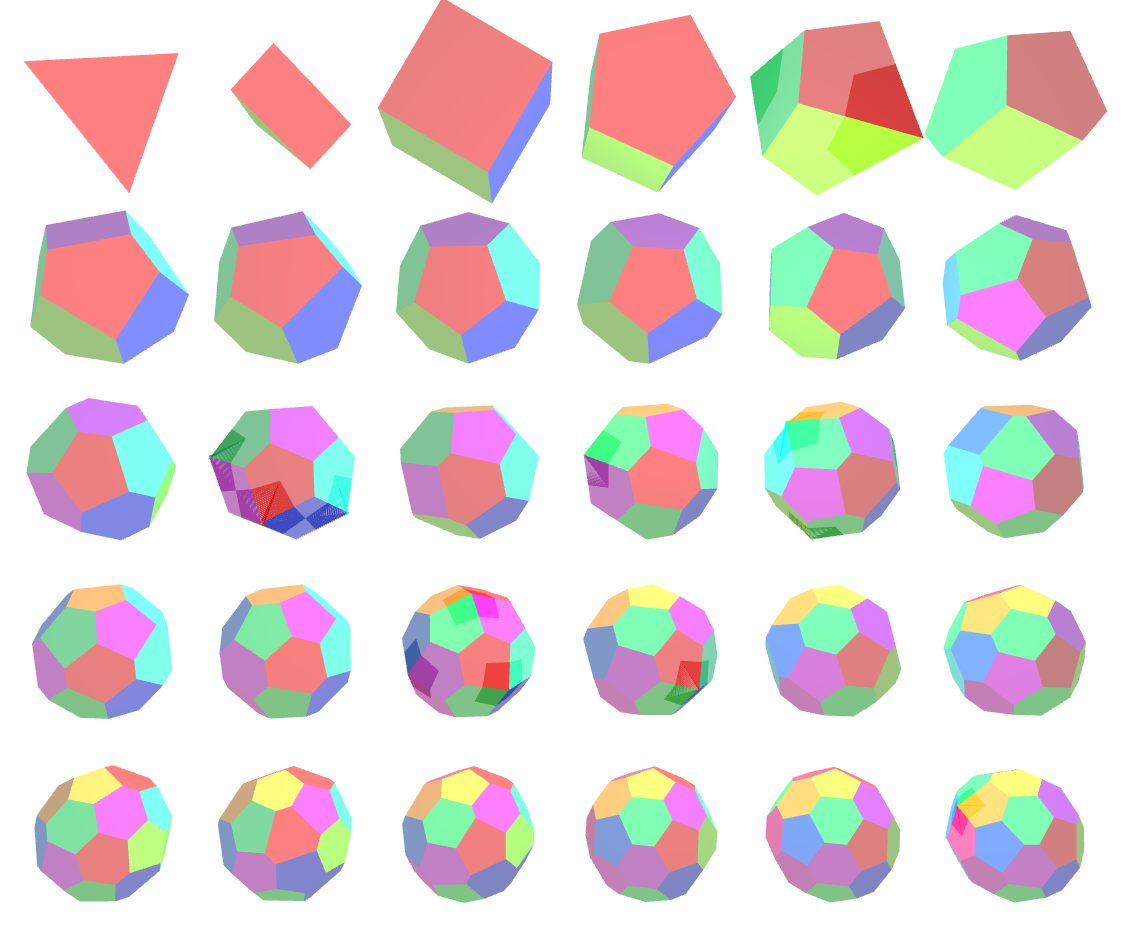
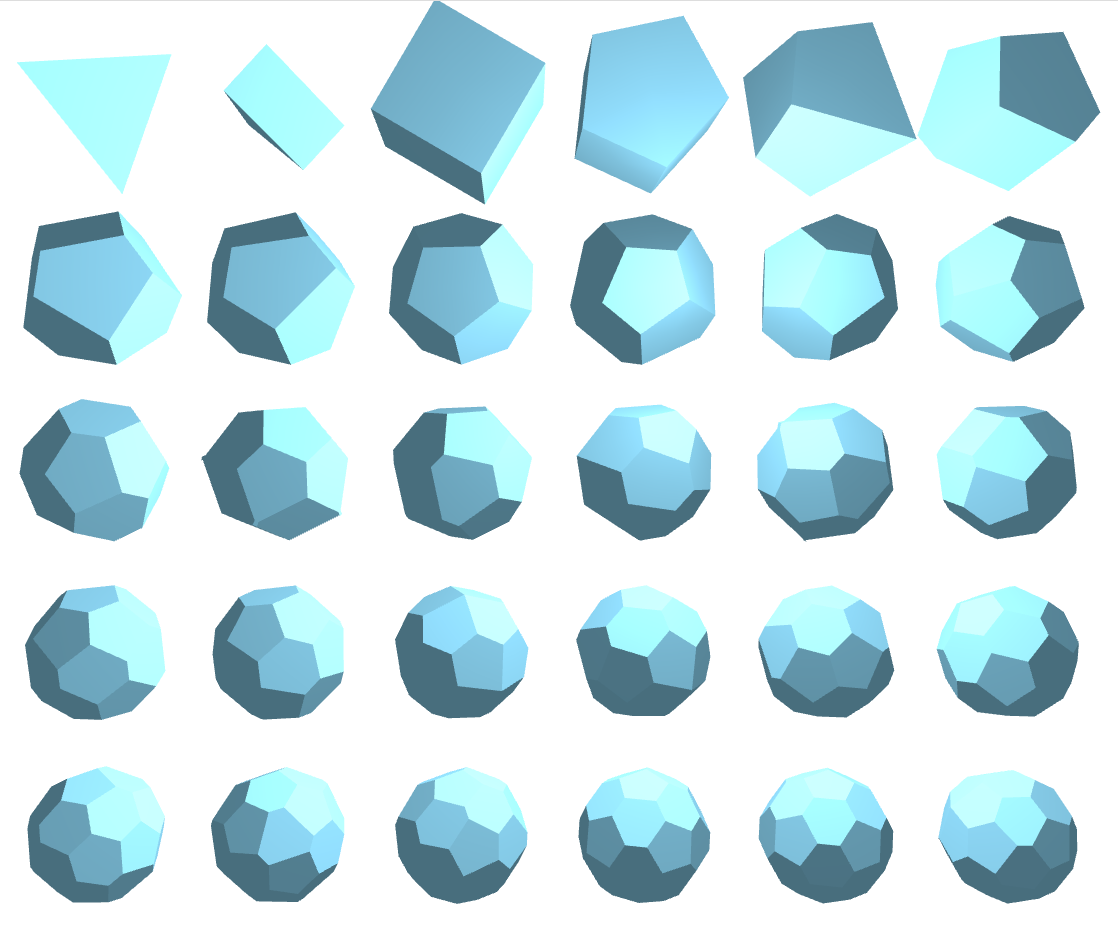
InnterFace result and OuterFace result display with single color

diff --git a/html5/ThreeView.js b/html5/ThreeView.js
@@ -6,6 +6,7 @@ var ThreeCamera;
 var width, height;
 var Renderer;
 
+var TriangleOpacity = 0.5;
 var	IsMouseDown = 0;
 var	DownX = 0;
 var	DownY = 0;
@@ -375,6 +376,7 @@ function hideTron() {
 }
 
 var cnt2 = 0;
+var ColorCount = 0;
 function drawTriangle(p0, p1, p2, n) {
 
     if (n == null) {
@@ -390,15 +392,12 @@ function drawTriangle(p0, p1, p2, n) {
 	//	n.mul(-1.0);
 	//}
     var idx = findTronFromNormal(n);
-    var col = Trons[idx].color;
-    // Calculate color from normal
-	//var col = Math.floor(Math.abs(n.x)*255) << 16;
-	//col += Math.floor(Math.abs(n.y)*255) << 8;
-	//col += Math.floor(Math.abs(n.z)*255);
-    //
-	//var col = Math.floor((n.x+1.0)*127) << 16;
-	//col += Math.floor((n.y+1.0)*127) << 8;
-	//col += Math.floor((n.z+1.0)*127);
+    var col;
+    col = Trons[idx].color;
+    if (GlobalFaceColor != null) {
+        col = GlobalFaceColor;
+    }
+
     var tri;
     var p0t = p0.clone();
     p0t.add(OffsetPoint);
@@ -447,7 +446,9 @@ function drawTriangle(p0, p1, p2, n) {
 	n.add(c);
 	//addLine(c, n, col);
 }
- 
+
+var GlobalFaceColor = null;
+
 function createTriangle(x0,y0,z0, x1,y1,z1, x2,y2,z2, col) {
     var geometry = new THREE.Geometry();
     var vect0 = new THREE.Vector3(x0, y0, z0);
@@ -465,16 +466,15 @@ function createTriangle(x0,y0,z0, x1,y1,z1, x2,y2,z2, col) {
 	//	side:THREE.FrontSide, transparent:true });
 
     var mat;
-    if (WhiteFace > 0.0) {
-        if (WhiteFace == 1.0) {
-            mat = new THREE.MeshLambertMaterial({color: 0xffffff, opacity: 1.0});
-        }
-        if (WhiteFace == 0.5) {
-            mat = new THREE.MeshLambertMaterial({ color: 0x808080, opacity: 1.0 });
-        }
+    if (GlobalFaceColor != null) {
+        mat = new THREE.MeshLambertMaterial({color: 0xff0000,
+            opacity:TriangleOpacity,
+            side:THREE.FrontSide, transparent:true });
+        mat.color.set(GlobalFaceColor);
+        mat.ambient.set(GlobalFaceColor);
     } else {
         mat = new THREE.MeshLambertMaterial({color: 0xff0000,
-		    opacity:0.5,
+		    opacity:TriangleOpacity,
 		    side:THREE.FrontSide, transparent:true });
         mat.color.setHSL(col.p1/360.0, 1.0, .5);
         mat.ambient.setHSL(col.p1/360.0, 1.0, .5);

diff --git a/html5/TronControlThree.js b/html5/TronControlThree.js
@@ -325,55 +325,6 @@ function loadIndexThree() {
 	selItem(n);
 }
 
-function loadResultView() {
-    //init();
-    ViewPole = new tuple3d(0, 0, 1);
-    ViewPoleX = new tuple3d(1, 0, 0);
-    ViewPoleX.unify();
-    ViewPoleY = ViewPole.cross(ViewPoleX);
-    ViewPoleY.unify();
-    ViewPole = ViewPoleX.cross(ViewPoleY);
-    ViewPole.unify();
-    ViewPoleX = ViewPoleY.cross(ViewPole);
-    ViewPoleX.unify();
-
-    width = document.getElementById('sphereCanvas').clientWidth;
-    height = document.getElementById('sphereCanvas').clientHeight;
-    Renderer = new THREE.WebGLRenderer({ antialias: true });
-    Renderer.setSize(width, height);
-    document.getElementById('sphereCanvas').appendChild(Renderer.domElement);
-    Renderer.setClearColorHex(0xFFFFFF, 1.0);
-
-    ZoomDistance = 2000;
-    initScene();
-    initLight();
-    initCamera();
-    initObjectThree();
-    for (var j = 0; j < 30; ++j) {
-        ModelInit();
-        var jsonObj = JSON.parse(results[4+j]);
-        for (var i = 0; i < jsonObj.num; ++i) {
-            var p = new tuple3d(jsonObj.vertex[3 * i], jsonObj.vertex[3 * i + 1], jsonObj.vertex[3 * i + 2]);
-            p.xy2sp();
-            var color = new tronColor("hsl", (i * 47) % 360, "100%", "50%");
-            AddTron(p.y, p.z, color);
-        }
-        hideTron();
-        OffsetPoint = new tuple3d(-7 + 3 * (j % 6), 6.5 - 3 * Math.floor(j / 6), 0);
-        if (j < 2) {
-            ThreeRadius = 100.5 * 0.5;
-            OffsetPoint.mul(2.0);
-        } else {
-            ThreeRadius = 100.5;
-        }
-        drawFace();
-    }
-
-    updateCamera();
-    Renderer.clear();
-    Renderer.render(ThreeScene, ThreeCamera);
-}
-
 var phase = 0;
 var calc_cnt = 0;
 

diff --git a/html5/DrawFace.js b/html5/DrawFace.js
@@ -276,6 +276,39 @@ function drawFace() {
     }
 }
 
+function drawInnerFace()
+{
+    var shortest = 1000;
+    for (var i = 0; i < Trons.length; ++i) {
+        for (var j = i + 1; j < Trons.length; ++j) {
+            var p0 = Trons[i].point.clone();
+            var p1 = Trons[j].point.clone();
+            var dis = p0.dis(p1);
+            if (dis < shortest) {
+                shortest = dis;
+            }
+        }
+    }
+    for (var i = 0; i < Trons.length; ++i) {
+        for (var j = i + 1; j < Trons.length; ++j) {
+            var p0 = Trons[i].point.clone();
+            var p1 = Trons[j].point.clone();
+            var dis01 = p0.dis(p1);
+            if (dis01 < shortest * 1.5) {
+                for (var k = j + 1; k < Trons.length; ++k) {
+                    var p2 = Trons[k].point.clone();
+                    var dis02 = p0.dis(p2);
+                    var dis12 = p1.dis(p2);
+                    if (dis02 < shortest * 1.5 && dis12 < shortest * 1.5) {
+                        addTriangle(p0, p1, p2);
+                    }
+                }
+            }
+        }
+    }
+
+}
+
 function FindNearestFacePointIndexFromIndex(idx)
 {
     var nearest = huge;

diff --git a/html5/ResultView.html b/html5/ResultView.html
@@ -11,6 +11,7 @@
         <script type="text/javascript" src="three/three.js"></script>
         <script type="text/javascript" src="ThreeView.js"></script>
         <script type="text/javascript" src="Tuple.js"></script>
+        <script type="text/javascript" src="ResultControl.js"></script>
         <script type="text/javascript" src="TronControlThree.js"></script>
         <script type="text/javascript" src="TourControlThree.js"></script>
         <script type="text/javascript" src="StoryControlThree.js"></script>
